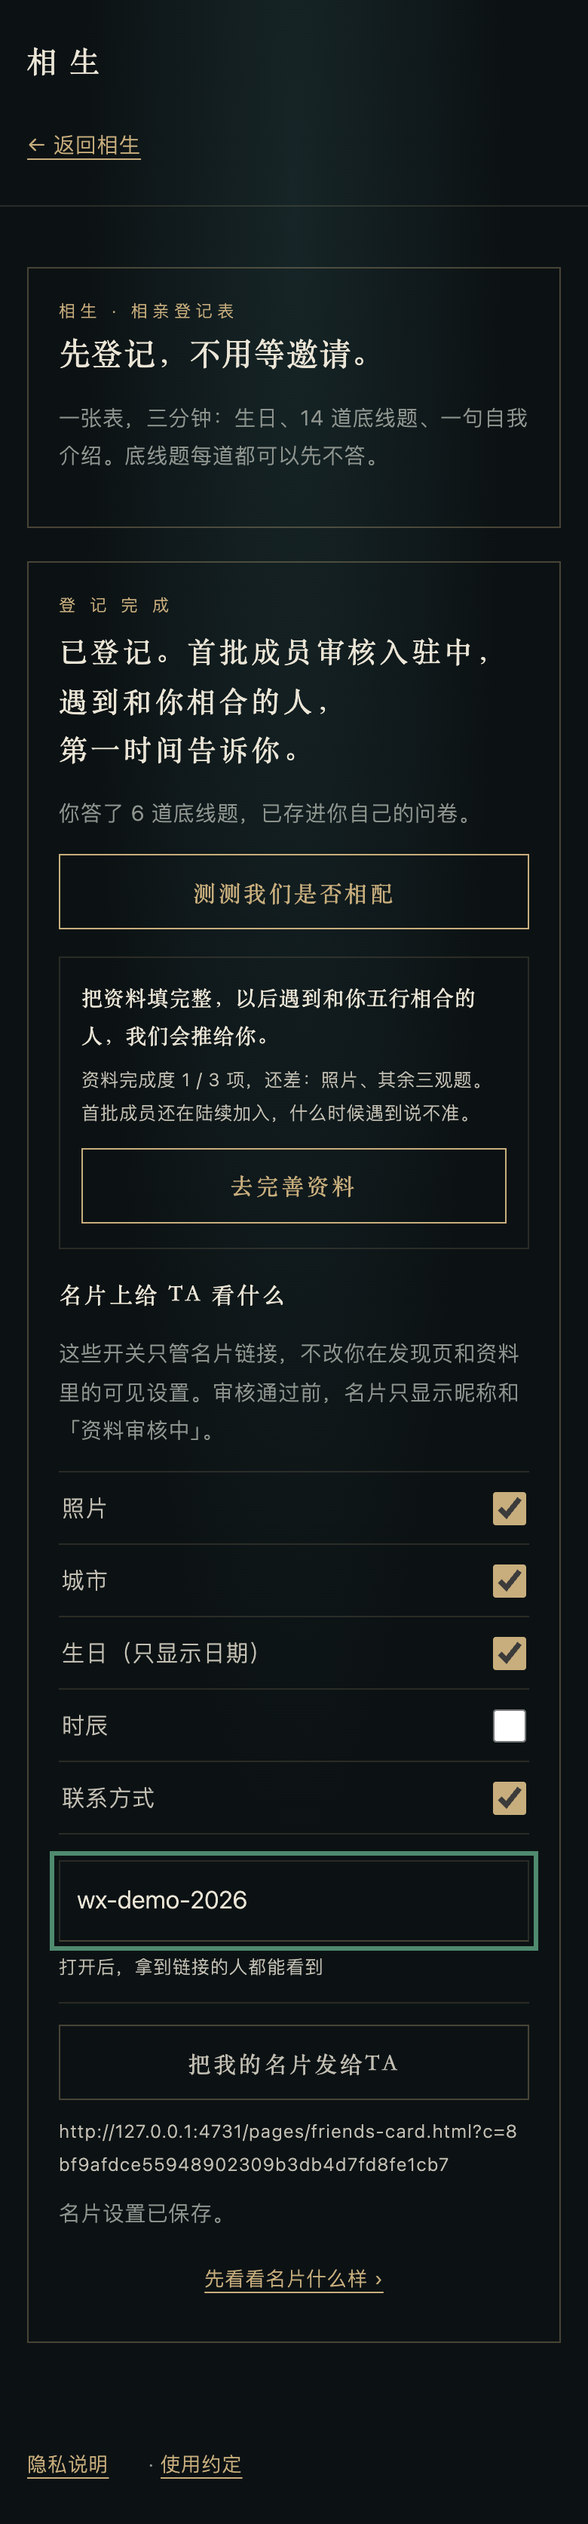
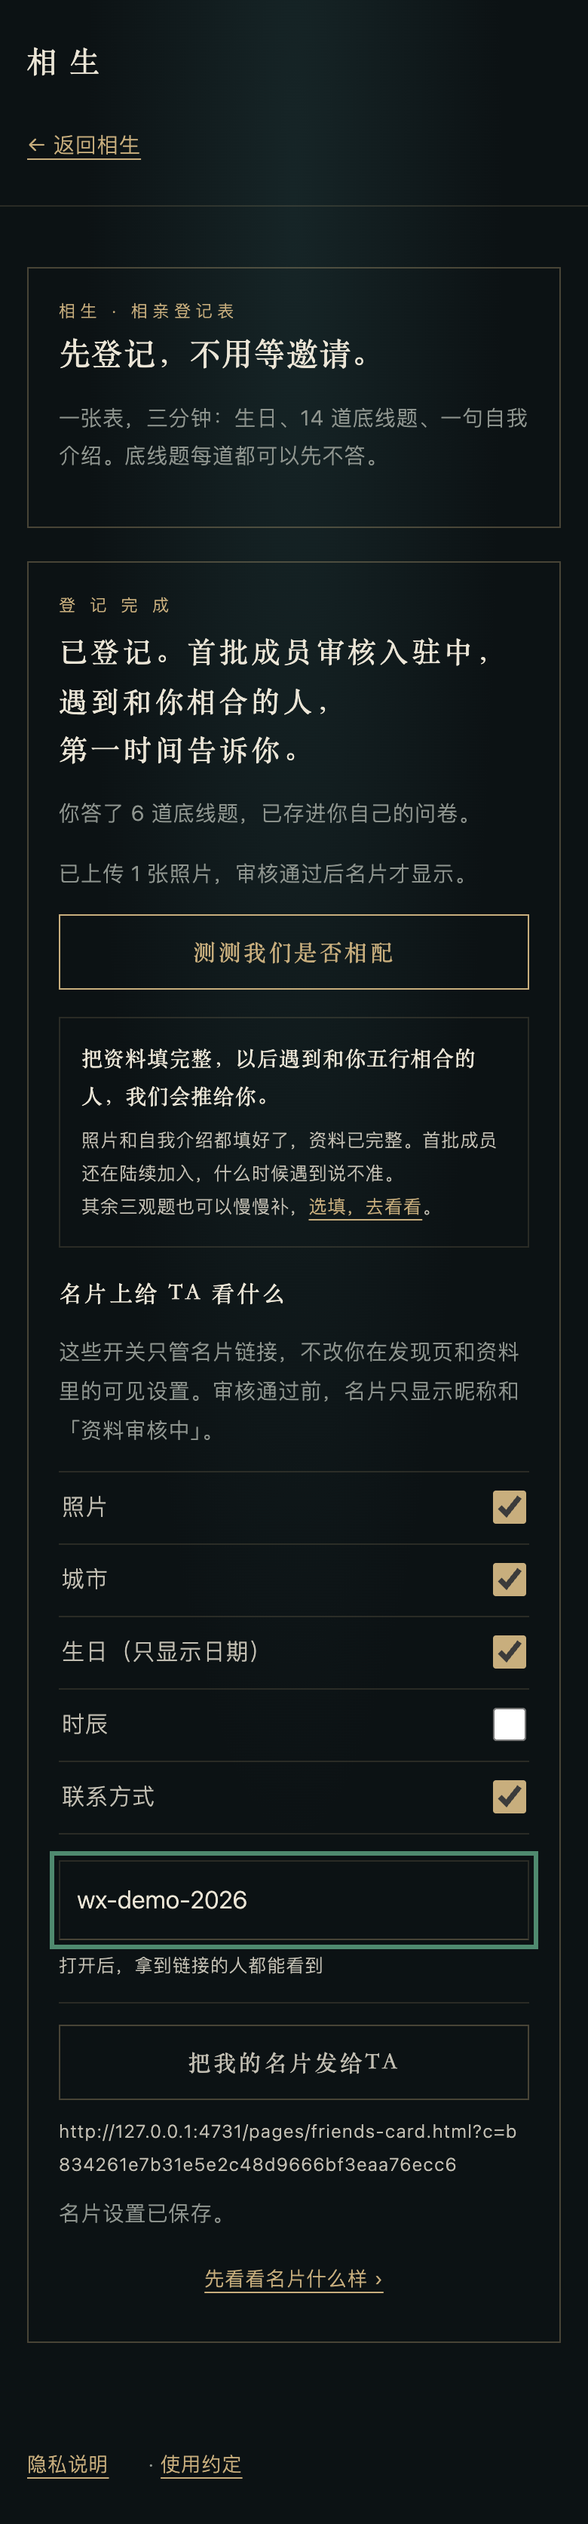
相生: card invite works while pending, 合盘 allowed during review, tier labels, photo upload, 2-item progress

diff --git a/assets/js/friends.js b/assets/js/friends.js
@@ -439,7 +439,7 @@
     setView(`<section class="page-wrap discover-wrap">${heading('','找朋友','只展示本人公开的资料。')}<form id="filter-form" class="filter-bar filter-row" role="search"><div class="filter-scroll"><label class="filter-city"><span class="visually-hidden">城市</span><input name="city" value="${esc(state.profile?.city||'')}" maxlength="20" placeholder="城市" aria-label="城市"></label><label><span class="visually-hidden">日主</span><select name="stem" aria-label="日主"><option value="">日主</option>${stems.map(s=>`<option>${s}</option>`).join('')}</select></label><label><span class="visually-hidden">想一起做的事</span><select name="activity" aria-label="想一起做的事"><option value="">一起做什么</option>${(window.XiangshengDateActivities?.DATE_ACTIVITY_GROUPS||[]).map(g=>`<optgroup label="${esc(g.label)}">${g.items.map(s=>`<option>${esc(s)}</option>`).join('')}</optgroup>`).join('')}</select></label><button type="button" class="secondary filter-more-toggle" id="filter-more-toggle" aria-expanded="false" aria-controls="filter-more">更多筛选</button></div><div class="filter-more" id="filter-more" hidden><label><span class="visually-hidden">生肖</span><select name="zodiac" aria-label="生肖"><option value="">生肖</option>${zodiacs.map(s=>`<option>${s}</option>`).join('')}</select></label><label><span class="visually-hidden">星座</span><select name="constellation" aria-label="星座"><option value="">星座</option>${constellations.map(s=>`<option>${s}</option>`).join('')}</select></label><label><span class="visually-hidden">MBTI</span><select name="mbti" aria-label="MBTI"><option value="">MBTI</option>${mbtiTypes.map(s=>`<option>${s}</option>`).join('')}</select></label><label><span class="visually-hidden">九型人格</span><select name="enneagram" aria-label="九型人格"><option value="">九型人格</option>${enneagrams.map(s=>`<option value="${s}">${esc(ennLabel(s))}</option>`).join('')}</select></label></div><button class="primary filter-go" type="submit" aria-label="按条件寻找"><svg viewBox="0 0 24 24" aria-hidden="true"><circle cx="11" cy="11" r="6.5"/><path d="M16 16l5 5"/></svg></button></form><section id="xs-range"></section><div id="xs-member-bar"></div><div id="discover-results" class="loading">正在寻找真实的交友卡…</div></section>`);
     $('#filter-form').addEventListener('submit',e=>{e.preventDefault();loadPeople();});$('#filter-more-toggle').addEventListener('click',e=>{const b=e.currentTarget,more=$('#filter-more'),open=more.hidden;more.hidden=!open;b.setAttribute('aria-expanded',String(open));b.textContent=open?'收起筛选':'更多筛选';});$('#filter-form').querySelectorAll('select').forEach(s=>{const mark=()=>s.closest('label').classList.toggle('is-set',!!s.value);s.addEventListener('change',mark);});window.XSRange?.mount($('#xs-range'),{profile:state.profile,reload:loadPeople});window.XSMember?.mount($('#xs-member-bar'),{reload:loadPeople,openCard:showDetail,advRoot:window.XSRange?.advancedRoot()});await loadPeople();
   }
-  async function loadPeople(){const target=$('#discover-results');if(!target)return; if(!state.user){target.className='';target.innerHTML=empty('登录后看看谁在找朋友','只展示本人愿意公开的资料。','登录 / 注册','#login');return;}if(!state.profile){target.className='';target.innerHTML=empty('先建好自己的卡片','有了卡片，才能向别人打招呼。','填写我的卡片','#profile');return;}target.className='loading';target.textContent='正在寻找真实的交友卡…';try {const f=new URLSearchParams(new FormData($('#filter-form')));for(const [k,v] of [...(window.XSRange?.params()||[]),...(window.XSMember?.params()||[])])f.set(k,v);const data=await api('/api/friends/discover?'+f.toString());if(!target.isConnected)return;target.className=data.profiles?.length?'people-grid':'';target.innerHTML=data.profiles?.length?`<p class="people-count">${Number(data.total)||data.profiles.length} 位 · 认识目的相同、想一起做同样事情的排在前面</p>`+data.profiles.map(cardHTML).join(''):empty('首批成员正在陆续加入。','先邀请一位朋友，测测你们是否相配。','测测我们是否相配','/pages/friends-compatibility.html?start=friend')+'<p class="fine-print empty-aside"><a class="text-button" href="/pages/friends-join.html">直接填登记表</a></p>'+'<div class="im-nudge"><p class="im-nudge-t">把资料填完整，以后遇到和你五行相合的人，我们会推给你。</p><p class="im-nudge-p">首批成员还在陆续加入，什么时候遇到说不准。可以先补：照片、自我介绍、其余三观题。</p><a class="jn-btn" href="#profile">去完善资料</a></div>'+'<p class="fine-print empty-aside"><a class="text-button" href="/pages/friends-profile-library.html">看看别人怎么介绍自己（虚构示例，不可申请认识）</a></p>';bindDetails(target);}catch(e){target.className='';target.innerHTML=empty('暂时未能读取交友卡。',esc(e.message),'完善我的资料','#profile');}}
+  async function loadPeople(){const target=$('#discover-results');if(!target)return; if(!state.user){target.className='';target.innerHTML=empty('登录后看看谁在找朋友','只展示本人愿意公开的资料。','登录 / 注册','#login');return;}if(!state.profile){target.className='';target.innerHTML=empty('先建好自己的卡片','有了卡片，才能向别人打招呼。','填写我的卡片','#profile');return;}target.className='loading';target.textContent='正在寻找真实的交友卡…';try {const f=new URLSearchParams(new FormData($('#filter-form')));for(const [k,v] of [...(window.XSRange?.params()||[]),...(window.XSMember?.params()||[])])f.set(k,v);const data=await api('/api/friends/discover?'+f.toString());if(!target.isConnected)return;target.className=data.profiles?.length?'people-grid':'';target.innerHTML=data.profiles?.length?`<p class="people-count">${Number(data.total)||data.profiles.length} 位 · 认识目的相同、想一起做同样事情的排在前面</p>`+data.profiles.map(cardHTML).join(''):empty('首批成员正在陆续加入。','先邀请一位朋友，测测你们是否相配。','测测我们是否相配','/pages/friends-compatibility.html?start=friend')+'<p class="fine-print empty-aside"><a class="text-button" href="/pages/friends-join.html">直接填登记表</a></p>'+'<div class="im-nudge"><p class="im-nudge-t">把资料填完整，以后遇到和你五行相合的人，我们会推给你。</p><p class="im-nudge-p">首批成员还在陆续加入，什么时候遇到说不准。可以先补：照片、自我介绍；其余三观题选填。</p><a class="jn-btn" href="#profile">去完善资料</a></div>'+'<p class="fine-print empty-aside"><a class="text-button" href="/pages/friends-profile-library.html">看看别人怎么介绍自己（虚构示例，不可申请认识）</a></p>';bindDetails(target);}catch(e){target.className='';target.innerHTML=empty('暂时未能读取交友卡。',esc(e.message),'完善我的资料','#profile');}}
   function dateActivityOptions(p){
     const mine=state.profile?.hobbies||[],theirs=p.hobbies||[];
     if(!mine.length||!theirs.length)return '<p class="fine-print">双方补充爱好后，这里会推荐 3～5 个一起想做的活动。</p>';

diff --git a/assets/js/friends-join.js b/assets/js/friends-join.js
@@ -7,6 +7,7 @@
  const POLICY='friends-2026-11-04-v1',SUCCESS='已登记。首批成员审核入驻中，遇到和你相合的人，第一时间告诉你。';
  const HOURS=['子','丑','寅','卯','辰','巳','午','未','申','酉','戌','亥'];
  const SWITCHES=[['photo','照片'],['city','城市'],['birthday','生日（只显示日期）'],['hour','时辰'],['contact','联系方式']];
+ const MAX_PHOTOS=6,MAX_EDGE=1600;
  let user=null,q=null;
  const chk=(id,text)=>h('label',{class:'chk'},h('input',{id,type:'checkbox'}),h('span',{class:'box'}),h('span',{class:'t'},h('span',{class:'req',text:'必选'}),...text));
  function buildForm(){
@@ -20,6 +21,7 @@
    qs,
    h('h2',{class:'hv-h',text:'三 · 一 句 自 我 介 绍'}),
    h('div',{class:'fl'},h('div',{class:'lb'},h('span',{text:'自我介绍'}),h('small',{text:'可不填，别写联系方式'})),h('textarea',{class:'in',id:'jn-intro',maxlength:'240',rows:'3',placeholder:'例如 在杭州做设计，周末爱爬山，想认识认真谈感情的人。'})),
+   h('div',{class:'fl'},h('div',{class:'lb'},h('span',{text:'照片'}),h('small',{text:'选填，最多 '+MAX_PHOTOS+' 张'})),h('input',{class:'in',id:'jn-photos',type:'file',accept:'image/jpeg,image/png,image/webp',multiple:true}),h('p',{class:'hint',id:'jn-photo-note',text:'上传前会在本机压缩，并去掉拍摄地点等信息。审核通过后，名片才会显示照片。'})),
    h('h2',{class:'hv-h',text:'四 · 提 交 前 请 确 认'}),
    chk('jn-cross',['出境告知：相生由香港公司运营，你的资料（含生辰）会存储在香港服务器并在香港处理。',h('a',{href:'/pages/friends-privacy.html#cross-border',target:'_blank',rel:'noopener',text:'查看详情 ›'})]),
    chk('jn-adult',['我已满 18 岁，所填是我本人的真实生辰。']),
@@ -39,6 +41,26 @@
     $('#jn-password').value='';$('#jn-account').textContent='';await refresh();}
    catch(x){$('#jn-account').textContent=x.message;}finally{b.disabled=false;}});
  }
+ // 和相亲页（friends-serious.js）同一条处理：本机重新编码、最长边 1600、去掉 EXIF；上传走同一个 /serious/photos 接口。
+ const blobToBase64=b=>new Promise((res,rej)=>{const fr=new FileReader();fr.onload=()=>res(String(fr.result).replace(/^data:[^,]*,/,''));fr.onerror=()=>rej(Error('无法读取文件'));fr.readAsDataURL(b);});
+ async function photoToBase64(file){
+  if(!/^image\/(jpeg|png|webp)$/.test(file.type))throw Error('只支持 JPG、PNG、WEBP 照片');
+  if(file.size>20*1024*1024)throw Error('照片太大了，请换一张');
+  const bmp=await createImageBitmap(file,{imageOrientation:'from-image'}).catch(()=>{throw Error('这张照片打不开，请换一张');});
+  const k=Math.min(1,MAX_EDGE/Math.max(bmp.width,bmp.height)),w=Math.round(bmp.width*k),hh=Math.round(bmp.height*k);
+  const c=document.createElement('canvas');c.width=w;c.height=hh;c.getContext('2d').drawImage(bmp,0,0,w,hh);bmp.close?.();
+  let qv=.86,blob;do{blob=await new Promise(r=>c.toBlob(r,'image/jpeg',qv));qv-=.12;}while(blob&&blob.size>4.5*1024*1024&&qv>.4);
+  if(!blob)throw Error('照片处理失败，请换一张');return blobToBase64(blob);
+ }
+ async function uploadPhotos(files){let ok=0,fail=null;for(const file of files.slice(0,MAX_PHOTOS)){try{await api('/api/friends/serious/photos',{method:'POST',body:{data:await photoToBase64(file)}});ok++;}catch(x){fail=x;}}return {ok,fail};}
+ // 名片上的邀请：主人自己发起一条链接邀请并授权自己的生辰，名片按钮就打开它（主人是发起人）。审核中也能用。
+ async function ensureInvite(nickname,input){
+  const own=await api('/api/friends/share-card').catch(()=>null);if(own?.inviteOk)return true;
+  const pair=await api('/api/friends/compatibility/pairs',{method:'POST',body:{purpose:'romance',relation:'friend',ownerNickname:nickname}});
+  if(!pair.inviteToken)return false;
+  await api('/api/friends/compatibility/pairs/'+encodeURIComponent(pair.id)+'/authorize',{method:'POST',body:{version:'compatibility-guide-v4',consent:true,inferenceConsent:true,poolOptIn:false,crossBorderConsent:true,input,includeQuestionnaire:false,allowChat:false}});
+  await api('/api/friends/share-card',{method:'POST',body:{invite:{pairId:pair.id,token:pair.inviteToken}}});return true;
+ }
  async function submit(f,btn){
   const nickname=f.querySelector('#jn-nickname').value.trim();if(!nickname)throw Error('请填一个昵称。');
   const input=readBirth(f);
@@ -50,7 +72,9 @@
   let saved=0,saveError=null;if(q)try{saved=await q.save();}catch(x){saveError=x;}
   const hour=input.time?HOURS[Math.floor(((+input.time.slice(0,2)+1)%24)/2)]:null;
   await api('/api/friends/share-card',{method:'POST',body:{birth:{date:input.birthday,hour},gender:input.gender}});
-  return {profile:r.profile,saved,saveError};
+  const files=[...(f.querySelector('#jn-photos').files||[])];let photos={ok:0,fail:null};if(files.length)photos=await uploadPhotos(files);
+  let inviteError=null;try{await ensureInvite(nickname,input);}catch(x){inviteError=x;}
+  return {profile:r.profile,saved,saveError,photos,inviteError};
  }
  function share(link,btn,note){
   btn.addEventListener('click',async()=>{
@@ -77,6 +101,9 @@
    h('p',{class:'im-eyebrow',text:'登 记 完 成'}),h('h2',{id:'jn-success',text:SUCCESS}),
    result.saved?h('p',{class:'muted',text:'你答了 '+result.saved+' 道底线题，已存进你自己的问卷。'}):null,
    result.saveError?h('p',{class:'error',text:'底线题暂未保存：'+result.saveError.message}):null,
+   result.photos?.ok?h('p',{class:'muted',text:'已上传 '+result.photos.ok+' 张照片，审核通过后名片才显示。'}):null,
+   result.photos?.fail?h('p',{class:'error',text:'有照片没传上：'+result.photos.fail.message}):null,
+   result.inviteError?h('p',{class:'error',text:'名片上的邀请暂时没建好：'+result.inviteError.message}):null,
    h('a',{class:'jn-pair',href:'/pages/friends-compatibility.html?start=friend',text:'测测我们是否相配'}),
    profileNudge(own),
    h('h3',{text:'名片上给 TA 看什么'}),h('p',{class:'muted',text:'这些开关只管名片链接，不改你在发现页和资料里的可见设置。审核通过前，名片只显示昵称和「资料审核中」。'}),

diff --git a/server/lib/friends-join-card.js b/server/lib/friends-join-card.js
@@ -4,6 +4,7 @@
 //  · 通过之后：昵称、日主、自我介绍、性格参考（沿用资料里各项的可见设置，只有设为公开的才给）、
 //    回答过的问卷方向名称（只有方向名，没有任何答案），以及主人在名片上打开的开关：照片/城市/生日/时辰/联系方式。
 //  · 开关只管这张名片，不改发现页和资料里的可见设置。永远不给：用户 ID、四柱、其他资料字段、原始问卷答案。
+const crypto=require('node:crypto');
 const {isDisabled}=require('./friends-admin');
 const R=require('./friends-review');
 const XB=require('./friends-cross-border');
@@ -35,13 +36,23 @@ function photosOf(s,uid){
   const row=(s.seriousPages||[]).find(r=>r.userId===uid);
   return (row?.photos||[]).map(x=>({id:x.id,w:x.w,h:x.h}));
 }
+// 名片上的邀请：主人自己发起的「链接邀请」（和「测测我们是否相配」同一套 compat 邀请，主人就是发起人）。
+// 链接邀请不要求主人资料已通过审核，所以审核中的名片也能走完整个流程。邀请被认领或到期后名片上不再给入口。
+const TOKEN_RE=/^[A-Za-z0-9_-]{43}$/;
+const hashOf=t=>crypto.createHash('sha256').update(t).digest('hex');
+function inviteUsable(s,p){
+  const inv=p?.shareCard?.invite;if(!inv||!TOKEN_RE.test(inv.token||''))return false;
+  const row=(s.compatibilityPairs||[]).find(r=>r.id===inv.pairId);
+  return !!row&&row.mode==='open_invite'&&same(row.from,p.userId)&&row.inviteTokenHash===hashOf(inv.token)&&row.status==='pending_recipient'&&Date.parse(row.expiresAt)>Date.now()&&!!row.authorizations?.[String(row.from)];
+}
 const birthOk=b=>b&&typeof b.date==='string'&&/^\d{4}-\d{2}-\d{2}$/.test(b.date);
 
 // 公开名片内容。返回 null = 不存在或已停用（路由给 404）。
 function publicPayload(s,p){
   if(!live(s,p))return null;
-  if(!R.reviewVisible(p))return {nickname:p.nickname,status:'pending',note:PENDING_NOTE};
-  const show=showOf(p),card=p.shareCard||{},out={nickname:p.nickname,status:'approved'};
+  const invite=inviteUsable(s,p)?{inviteToken:p.shareCard.invite.token}:{};
+  if(!R.reviewVisible(p))return {nickname:p.nickname,status:'pending',note:PENDING_NOTE,...invite};
+  const show=showOf(p),card=p.shareCard||{},out={nickname:p.nickname,status:'approved',...invite};
   if(p.chart?.dayMaster)out.dayMaster=p.chart.dayMaster+(p.chart.element||'');
   if(p.bio)out.intro=p.bio;
   const personality={};
@@ -66,7 +77,7 @@ function createJoinCard(store){
       if(!live(s,p)||!R.reviewVisible(p)||!showOf(p).photo||!photosOf(s,p.userId).some(x=>x.id===photoId))fail(404,'照片不存在');return true;},
     // 主人自己的设置页：开关 + 联系方式 + 已有照片数 + 审核状态。
     own(uid){const s=store.read(),p=mineOf(s,uid);if(!p)return {hasProfile:false,show:{...SHOW_DEFAULTS}};
-      return {hasProfile:true,shareId:p.shareId,show:showOf(p),contact:p.shareCard?.contact||'',hasBirth:birthOk(p.shareCard?.birth),birthHour:!!HOURS.includes(p.shareCard?.birth?.hour),photoCount:photosOf(s,uid).length,review:R.ownerReview(p),intro:p.bio||''};},
+      return {hasProfile:true,shareId:p.shareId,show:showOf(p),contact:p.shareCard?.contact||'',hasBirth:birthOk(p.shareCard?.birth),birthHour:!!HOURS.includes(p.shareCard?.birth?.hour),inviteOk:inviteUsable(s,p),photoCount:photosOf(s,uid).length,review:R.ownerReview(p),intro:p.bio||''};},
     save(uid,b={}){XB.check(store,uid);
       return store.transaction(s=>{const p=mineOf(s,uid);if(!p)fail(400,'请先保存登记表');
         const card=p.shareCard={...(p.shareCard||{})};
@@ -78,8 +89,11 @@ function createJoinCard(store){
           if(typeof d!=='string'||!/^\d{4}-\d{2}-\d{2}$/.test(d)||!Number.isFinite(t)||new Date(t).toISOString().slice(0,10)!==d||t>Date.now()||d<'1900-01-01')fail(400,'生日格式无效');
           if(h!==null&&h!==undefined&&!HOURS.includes(h))fail(400,'时辰无效');
           card.birth={date:d,hour:HOURS.includes(h)?h:null};}
+        if(b.invite!==undefined){const t=b.invite?.token,id=b.invite?.pairId;
+          const row=typeof id==='string'&&TOKEN_RE.test(t||'')?(s.compatibilityPairs||[]).find(r=>r.id===id&&r.mode==='open_invite'&&same(r.from,uid)&&r.inviteTokenHash===hashOf(t)):null;
+          if(!row)fail(400,'邀请无效');card.invite={pairId:id,token:t};}
         if(b.gender!==undefined){if(!['female','male'].includes(b.gender))fail(400,'性别无效');card.gender=b.gender;}
-        return {ok:true,show:showOf(p),contact:card.contact||''};});}
+        return {ok:true,inviteOk:inviteUsable(s,p),show:showOf(p),contact:card.contact||''};});}
   };
 }
 module.exports={createJoinCard,publicPayload,SHOW_DEFAULTS,SHOW_KEYS,PENDING_NOTE};

diff --git a/assets/js/friends-invite-match.js b/assets/js/friends-invite-match.js
@@ -131,10 +131,13 @@
 
  // 「把资料填完整」提示：登记表成功页、发现页空状态、邀请结果页共用。own = GET /share-card 的返回（可为空）。
  const NUDGE='把资料填完整，以后遇到和你五行相合的人，我们会推给你。';
- function nudgeItems(own){const miss=[];if(!own?.photoCount)miss.push('照片');if(!own?.intro)miss.push('自我介绍');miss.push('其余三观题');return {miss,done:3-miss.length};}
+ function nudgeItems(own){const miss=[];if(!own?.photoCount)miss.push('照片');if(!own?.intro)miss.push('自我介绍');return {miss,done:2-miss.length};}
  function profileNudge(own){
   const {miss,done}=nudgeItems(own);
-  return h('div',{class:'im-nudge'},h('p',{class:'im-nudge-t',text:NUDGE}),h('p',{class:'im-nudge-p',text:'资料完成度 '+done+' / 3 项，还差：'+miss.join('、')+'。首批成员还在陆续加入，什么时候遇到说不准。'}),h('a',{class:'jn-btn',href:'/pages/friends-connect.html#profile',text:'去完善资料'}));
+  return h('div',{class:'im-nudge'},h('p',{class:'im-nudge-t',text:NUDGE}),
+   h('p',{class:'im-nudge-p',text:(miss.length?'资料完成度 '+done+' / 2 项，还差：'+miss.join('、')+'。':'照片和自我介绍都填好了，资料已完整。')+'首批成员还在陆续加入，什么时候遇到说不准。'}),
+   h('p',{class:'im-nudge-p'},'其余三观题也可以慢慢补，',h('a',{href:'/pages/friends-questions.html',text:'选填，去看看'}),'。'),
+   miss.length?h('a',{class:'jn-btn',href:'/pages/friends-connect.html#profile',text:'去完善资料'}):null);
  }
  async function showNudge(host){if(!host)return;let own=null;try{own=await api('/api/friends/share-card');}catch{}host.replaceChildren(profileNudge(own));}
 

diff --git a/server/lib/friends-compatibility.js b/server/lib/friends-compatibility.js
@@ -71,7 +71,8 @@ function createCompatibilityService({store,calculateChart=calculate,questionnair
  const profile=(s,uid)=>(s.profiles||[]).find(p=>same(p.userId,uid));
  const blocked=(s,a,b)=>(s.blocks||[]).some(x=>same(x.by,a)&&same(x.target,b)||same(x.by,b)&&same(x.target,a));
  // 首批审核制: a card still under review (or not passed) can't be a 合盘 target or requester.
- const liveProfile=(s,p)=>!!p?.listed&&!isDisabled(s,p.userId)&&require('./friends-review').reviewVisible(p);
+ // 审核只管资料里的声明（学历、照片等）；合盘用的是本人填的真实生日，审核期间也可以发起和使用（认识申请仍要等通过）。
+ const liveProfile=(s,p)=>!!p?.listed&&!isDisabled(s,p.userId);
  function usable(s,p){const target=profile(s,p.to),requester=profile(s,p.from);if(isDisabled(s,p.from)||p.to!==null&&isDisabled(s,p.to)||p.to!==null&&blocked(s,p.from,p.to))return false;if(p.mode==='open_invite')return (!p.requesterShareId||requester?.shareId===p.requesterShareId)&&(!p.recipientShareId||target?.shareId===p.recipientShareId);return liveProfile(s,target)&&target.shareId===p.targetShareId&&(!p.requesterShareId||requester?.shareId===p.requesterShareId&&liveProfile(s,requester))&&(!requester||liveProfile(s,requester));}
  function snapshot(){const s=store.read();if(rows(s).some(p=>Date.parse(p.expiresAt)<=clock()&&!['revoked','declined','expired'].includes(p.status)))return store.transaction(next=>{purgeExpiredCompatibility(next,clock());return structuredClone(next);});return s;}
  function own(s,uid,id){uidCheck(uid);const p=rows(s).find(p=>p.id===id&&(same(p.from,uid)||same(p.to,uid)));if(!p)fail(404,'邀请不存在');return p;}

diff --git a/assets/js/friends-card.js b/assets/js/friends-card.js
@@ -7,8 +7,11 @@
  const id=new URLSearchParams(location.search).get('c')||'';
  const PERS={mbti:'MBTI',enneagram:'九型',constellation:'星座'};
  const row=(k,v)=>h('li',{},h('b',{text:k}),v);
- function pairButton(){return h('a',{class:'cd-cta',href:'/pages/friends-compatibility.html?start=friend&target='+encodeURIComponent(id),text:'测测我们是否相配'});}
+ // 按钮打开名片主人发起的那条链接邀请（主人是发起人）；邀请被用掉或到期后，名片不再给入口。
+ let inviteToken=null;
+ function pairButton(){return inviteToken?h('a',{class:'cd-cta',href:'/pages/friends-compatibility.html?invite='+encodeURIComponent(inviteToken),text:'测测我们是否相配'}):h('p',{class:'cd-fine',text:'这张名片的邀请已用过或已到期，可以请 TA 重新发一张。'});}
  function render(c){
+  inviteToken=typeof c.inviteToken==='string'?c.inviteToken:null;
   const card=h('section',{class:'cd-card'},h('p',{class:'cd-eyebrow',text:'相 生 · 相 亲 名 片'}),h('h1',{class:'cd-name',text:c.nickname}));
   if(c.status!=='approved'){card.append(h('p',{class:'cd-pending',text:c.note||'资料审核中'}));host.replaceChildren(card,pairButton());return;}
   const rows=h('ul',{class:'cd-rows'});

diff --git a/server/lib/friends-hepan-v4.js b/server/lib/friends-hepan-v4.js
@@ -53,7 +53,8 @@ function starOf(chart,mode){
  return {kind:'印比',label:'相处星',elements:[ELEMENTS[(ei(me)+4)%5],me]};// 印星（生我）、比劫（同我）
 }
 const clamp=(v,lo,hi)=>Math.max(lo,Math.min(hi,v));
-const TIER={great:'很合拍',fine:'大体合拍',grind:'磨合型'};
+// 类型名，不是排名词：只描述相处的样子。
+const TIER={great:'相合型',fine:'平和型',grind:'互补·磨合型'};
 function tierOf(total,cfg=CONFIG){return total>=cfg.thresholds.great?'great':total>=cfg.thresholds.fine?'fine':'grind';}
 
 function analyze(rawA,rawB,{purpose='romance',config=CONFIG}={}){
